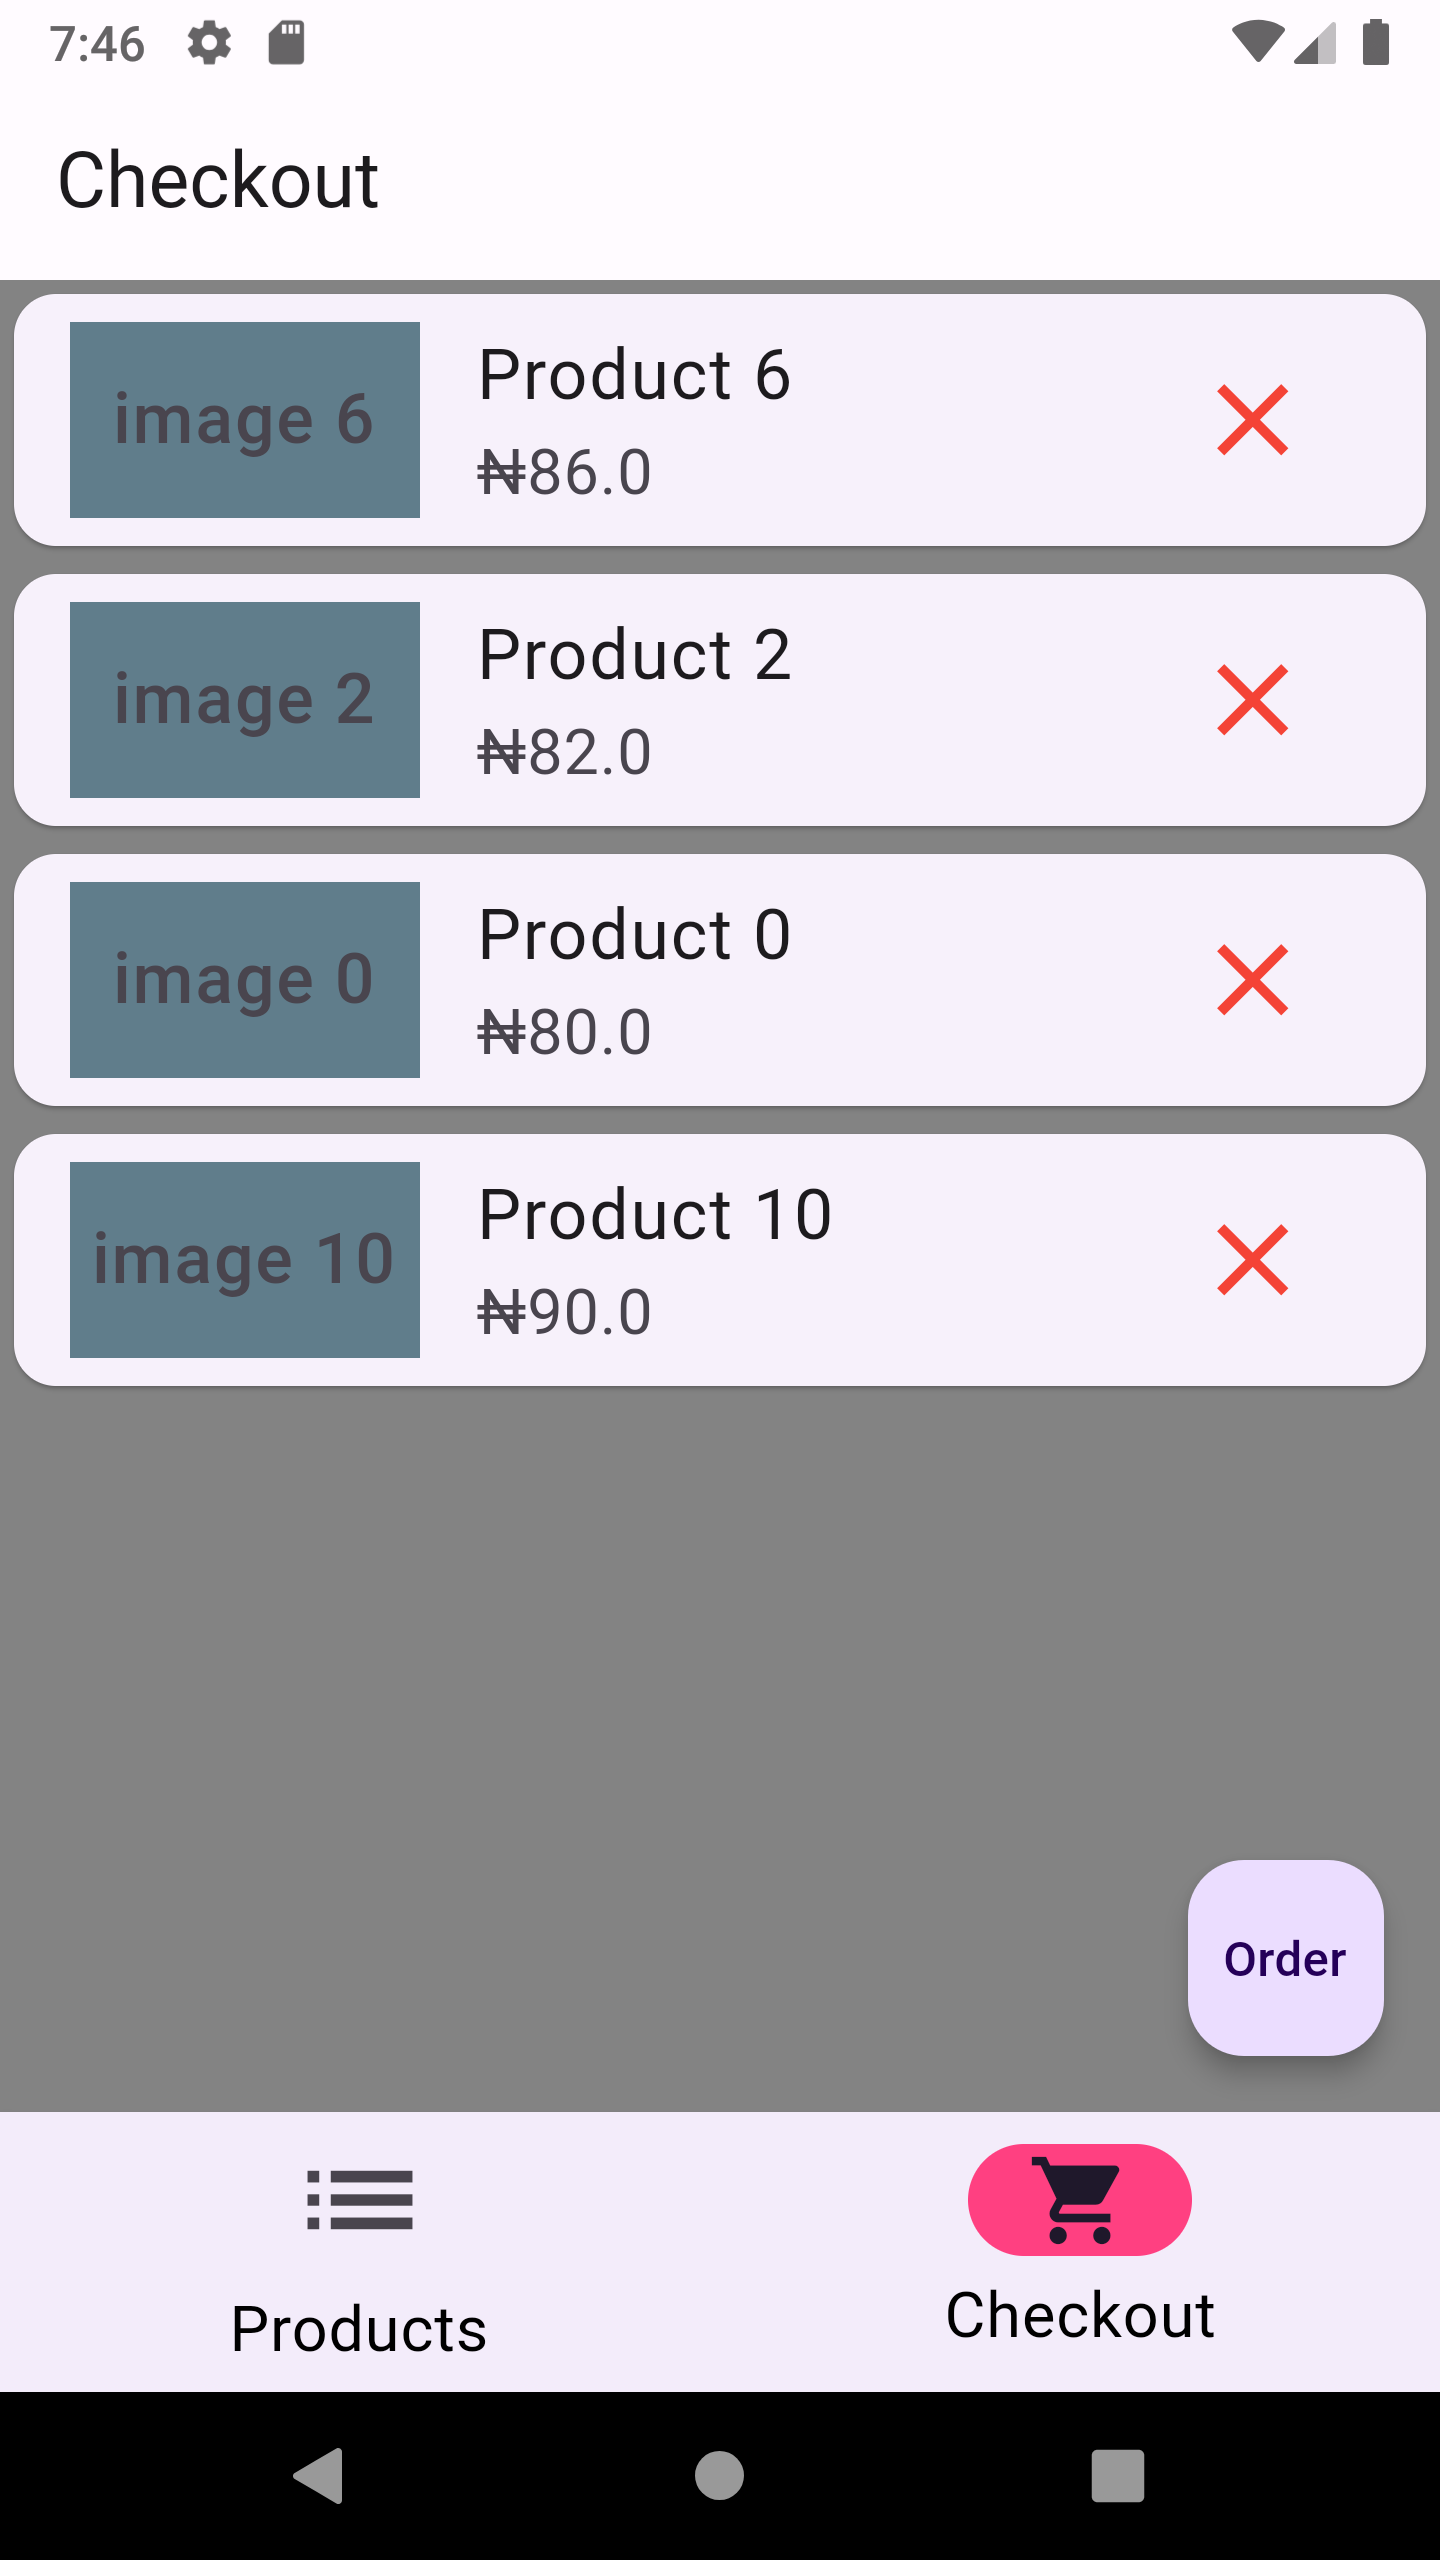
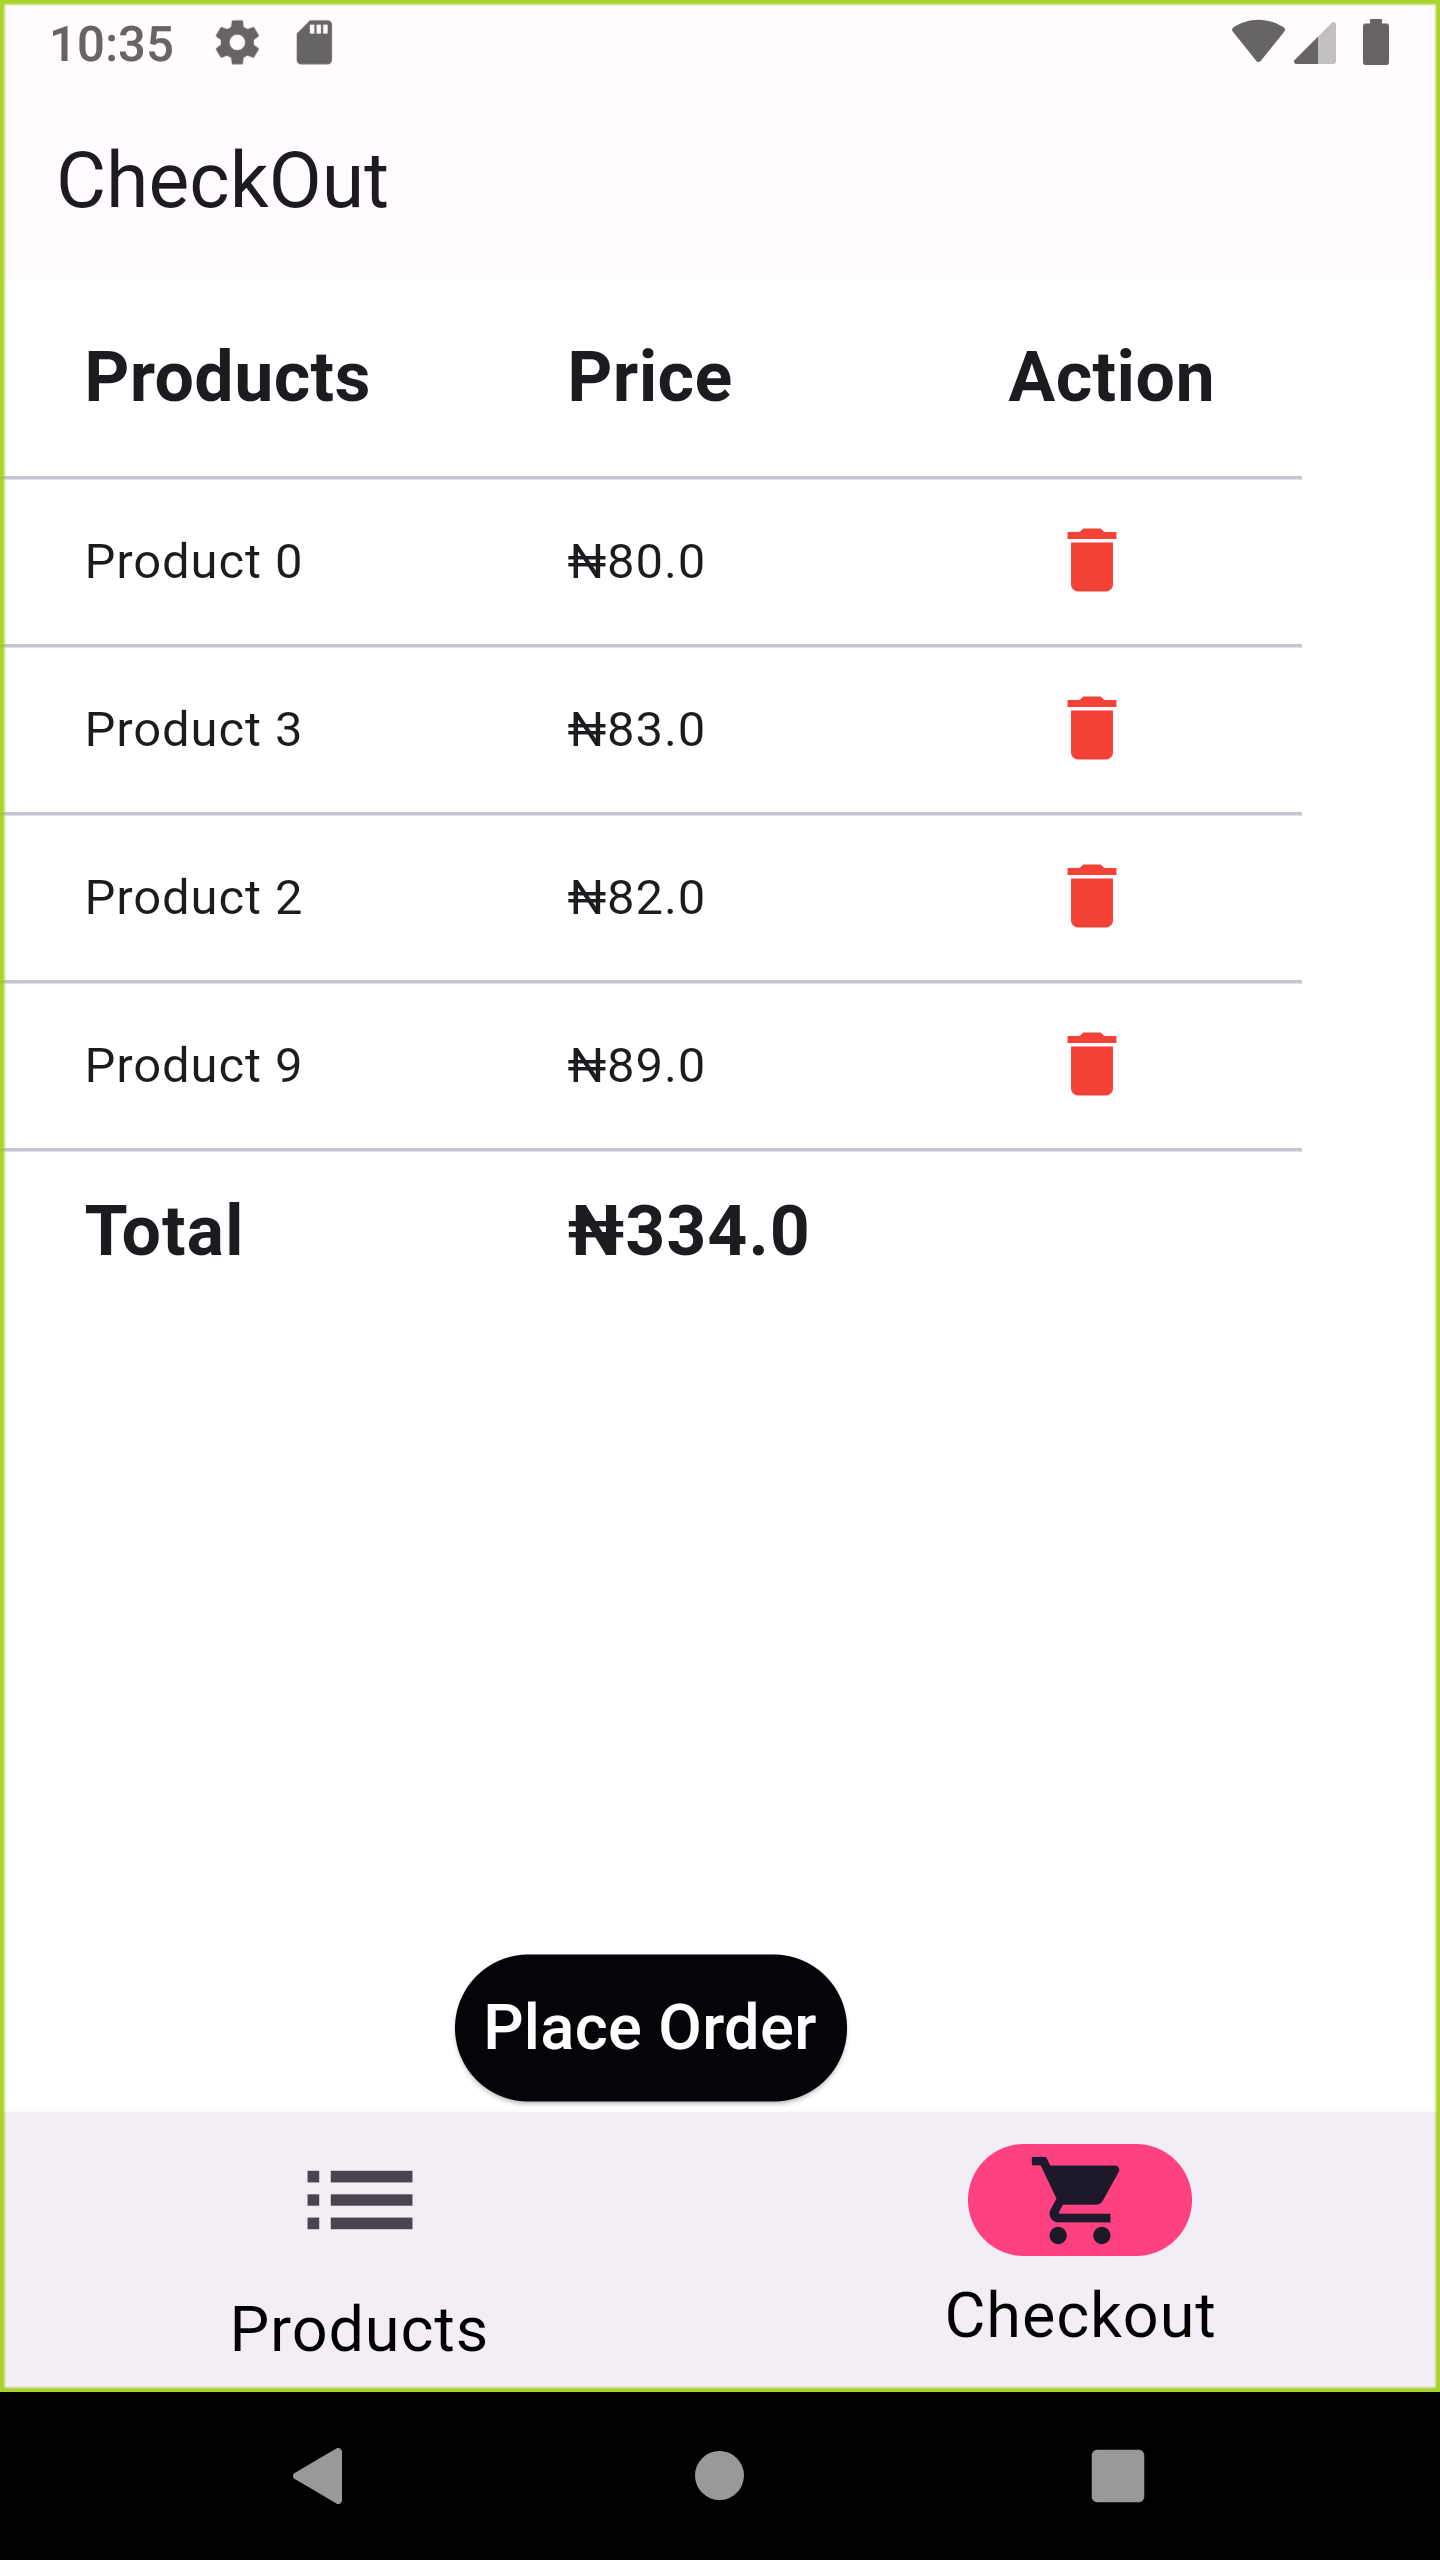
make checkout a DataTable and update README scrnshots

diff --git a/lib/data_table.dart b/lib/data_table.dart
@@ -1,0 +1,102 @@
+import 'package:flutter/material.dart';
+import 'package:simple_shopping_app/order_successful.dart';
+import 'package:simple_shopping_app/product_model.dart';
+
+
+const kHeadingStyle=TextStyle(fontSize: 20,fontWeight: FontWeight.bold);
+
+class CheckOutPage extends StatefulWidget {
+
+  static List<ProductModel> checkedOutProducts =[];
+
+  const CheckOutPage({super.key});
+
+
+  @override
+  _CheckOutPageState createState() => _CheckOutPageState();
+}
+
+class _CheckOutPageState extends State<CheckOutPage> {
+
+
+  double getTotalPrice() {
+    return CheckOutPage.checkedOutProducts.fold(0.0, (currentTotal, product) => currentTotal + product.price);
+  }
+
+
+  @override
+  Widget build(BuildContext context) {
+
+    return Scaffold(
+      backgroundColor: Colors.white,
+      appBar: AppBar(title: const Text('CheckOut'),),
+      body: CheckOutPage.checkedOutProducts.isEmpty ?
+      const Center(
+          child: Text(
+            'Add Items for Checkout from Products page',
+            style: TextStyle(fontSize: 25,fontWeight: FontWeight.bold),
+            textAlign: TextAlign.center,
+          )):
+      Column(
+        children: [
+          Expanded(
+            child: DataTable(
+              columns: const [
+                DataColumn(label: Text('Products',style: kHeadingStyle,)),
+                DataColumn(label: Text('Price',style: kHeadingStyle,)),
+                DataColumn(label: Text('Action',style: kHeadingStyle,)),
+              ],
+              rows: CheckOutPage.checkedOutProducts.map((item) {
+                return DataRow(cells: [
+                  DataCell(Text(item.title)),
+                  DataCell(Text('\u20A6${item.price}')),
+                  DataCell(IconButton(
+                    icon: const Icon(Icons.delete,color: Colors.red,),
+                    onPressed: () {
+                      int index = CheckOutPage.checkedOutProducts.indexOf(item);
+                    if(index != -1){
+                      setState(() {
+                        CheckOutPage.checkedOutProducts.removeAt(index);
+                      });
+                    }else{print('Index not found');}
+                      // Remove item from checkout
+                    },
+                  )),
+                ]);
+              }).toList()
+                ..add(DataRow(cells: [
+                  const DataCell(Text('Total',style: kHeadingStyle)),
+                  DataCell(Text('\u20A6${getTotalPrice()}',style: kHeadingStyle)),
+                  const DataCell(Text('')),
+                ])),
+            ),
+          ),
+          ElevatedButton(
+            style: ElevatedButton.styleFrom(
+
+              padding: const EdgeInsets.all(8),
+              backgroundColor: Colors.black // Background color
+            ),
+            onPressed: () {
+              if(CheckOutPage.checkedOutProducts.isNotEmpty){
+                setState(() {
+                  CheckOutPage.checkedOutProducts = [];
+                });
+
+                Navigator.of(context).push(
+                  MaterialPageRoute(
+                    builder: (context) => const OrderSuccess(),
+                  ),
+                );
+              }
+            },
+            child: const Text('Place Order',style: TextStyle(fontSize: 18,color: Colors.white),),
+          ),
+        ],
+      ) ,
+    );
+  }
+
+
+}
+

diff --git a/lib/product_page.dart b/lib/product_page.dart
@@ -1,6 +1,6 @@
 import 'package:flutter/material.dart';
-import 'package:simple_shopping_app/checkout_page.dart';
 import 'package:simple_shopping_app/product_model.dart';
+import 'data_table.dart';
 
 class ProductPage extends StatelessWidget {
   ProductPage({super.key});
@@ -60,16 +60,18 @@ class ProductPage extends StatelessWidget {
                           Text(
                             '\u20A6${product.price}',
                             style: const TextStyle(
-                                fontSize: 16, fontWeight: FontWeight.bold),
+                                fontSize: 20, fontWeight: FontWeight.bold),
                           ),
                           ElevatedButton(
                             style: ElevatedButton.styleFrom(
                               backgroundColor: Colors.green,
+                              shape: const CircleBorder(),
                             ),
+
                             onPressed: () {
-                              CheckOut.cartedProducts.add(product);
+                              CheckOutPage.checkedOutProducts.add(product);
                             },
-                            child: const Text('Checkout',style: TextStyle(color: Colors.black),),
+                            child: const Icon(Icons.add)
                           )
                         ],
                       )
@@ -82,3 +84,6 @@ class ProductPage extends StatelessWidget {
     );
   }
 }
+
+
+

diff --git a/lib/home_page.dart b/lib/home_page.dart
@@ -1,5 +1,5 @@
 import 'package:flutter/material.dart';
-import 'package:simple_shopping_app/checkout_page.dart';
+import 'package:simple_shopping_app/data_table.dart';
 import 'package:simple_shopping_app/product_page.dart';
 
 class HomePage extends StatefulWidget {
@@ -43,7 +43,7 @@ class _HomePageState extends State<HomePage> {
       ),
       body: <Widget>[
         ProductPage(),
-        const CheckOut(),
+        const CheckOutPage(),
       ][currentPageIndex],
     );
   }

diff --git a/lib/main.dart b/lib/main.dart
@@ -2,6 +2,7 @@ import 'package:flutter/material.dart';
 import 'package:simple_shopping_app/home_page.dart';
 
 
+
 void main() {
   runApp(const MyApp());
 }
@@ -19,7 +20,7 @@ class MyApp extends StatelessWidget {
         useMaterial3: true,
         scaffoldBackgroundColor: Colors.white30,
       ),
-      home: const HomePage(),
+      home:  const HomePage(),
     );
   }
 }
